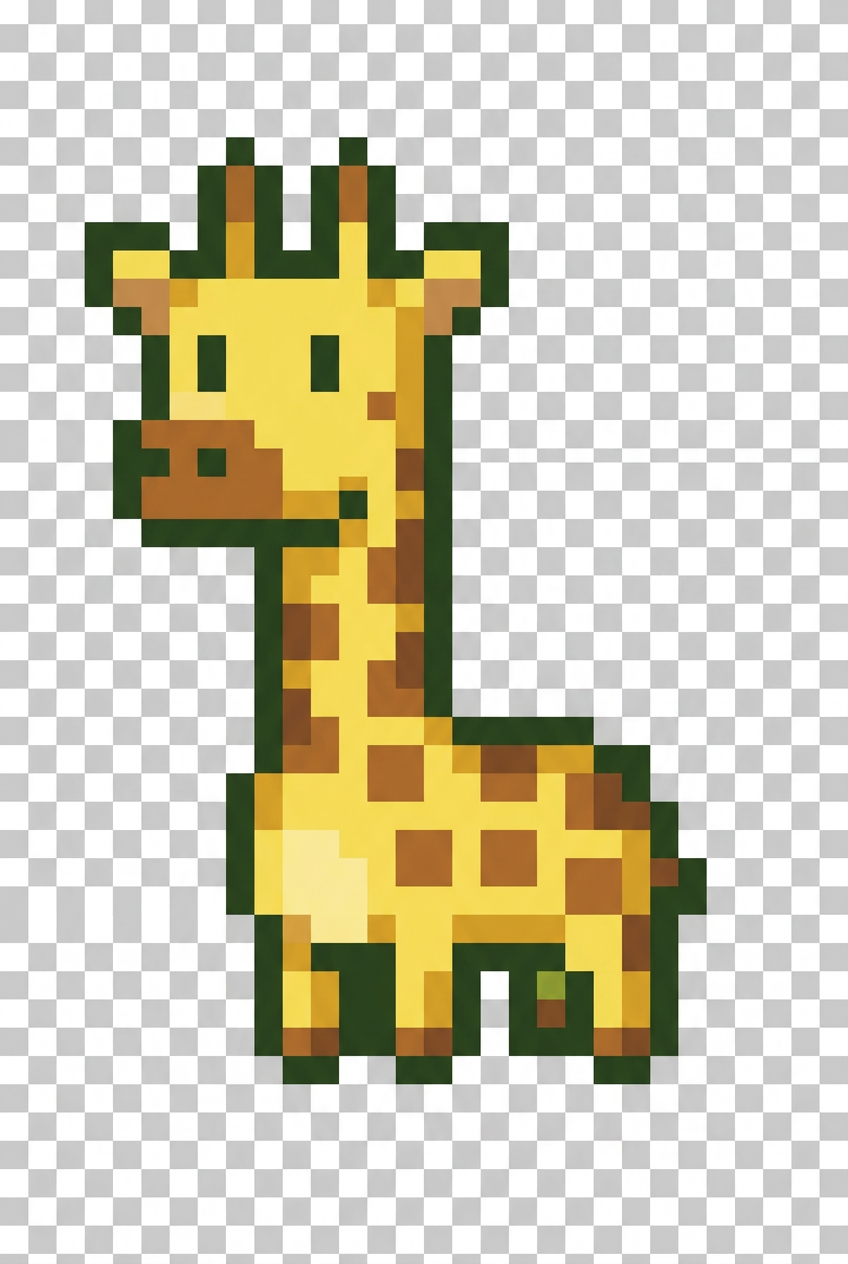
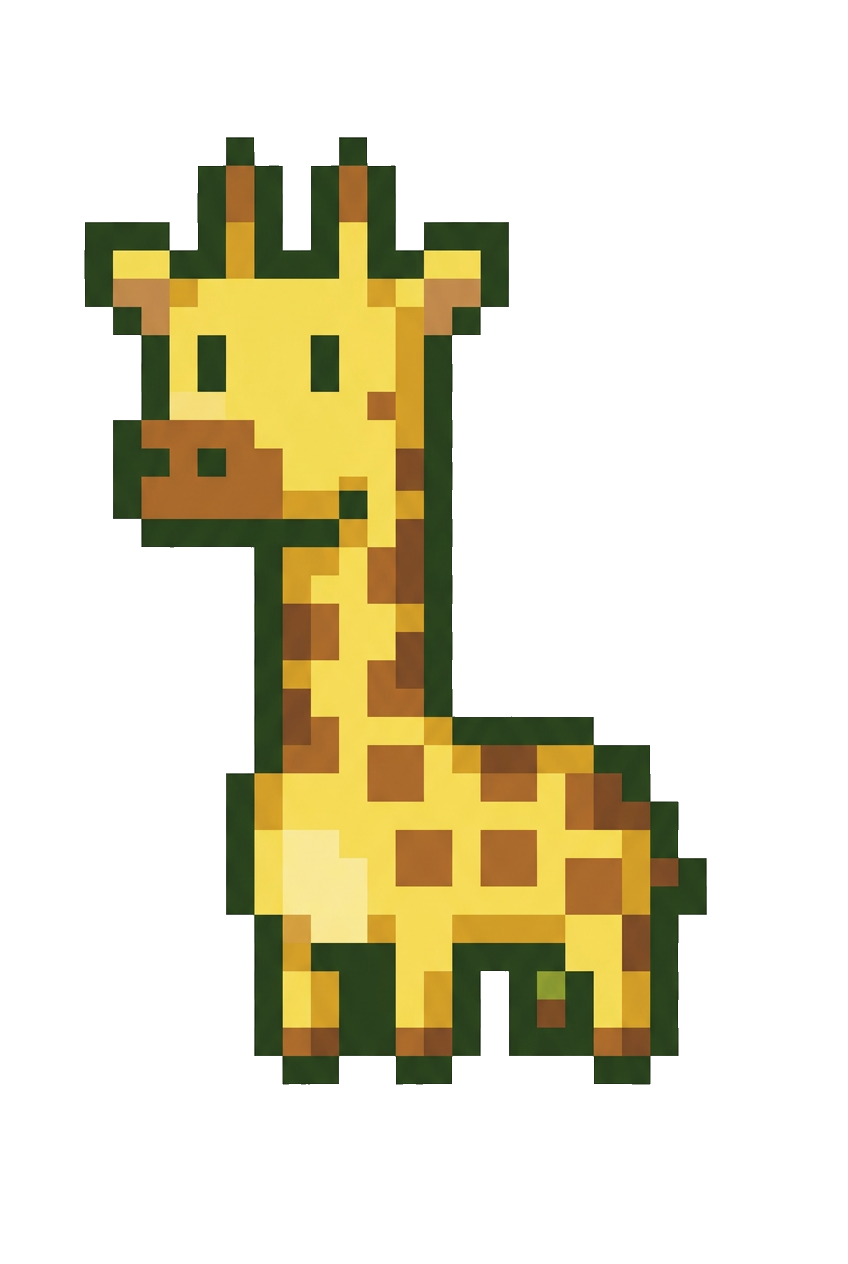
remove giraffe background via edge flood-fill; position-aware sound question phrasing

diff --git a/src/components/InitialSoundQuestion.jsx b/src/components/InitialSoundQuestion.jsx
@@ -1,12 +1,25 @@
 // Reverse of PhonemeQuestion: the child hears a whole word and taps the grapheme
-// that represents its first sound. Audio uses TTS fallback intentionally — full words
-// via Web Speech API are clear and natural; no recorded .wav files are needed.
+// for the target sound. Audio uses TTS fallback intentionally — full words via Web
+// Speech API are clear and natural; no recorded .wav files are needed.
+// Question wording adapts to where the grapheme appears in the word (beginning/end/middle).
 
 import { useEffect, useState, useMemo } from 'react'
 import { speak } from '../services/tts'
 
 function shuffle(arr) {
   return [...arr].sort(() => Math.random() - 0.5)
+}
+
+// Finds the best word and derives question phrasing based on where the grapheme sits.
+function getSegmentInfo(entry) {
+  const candidates = [entry.ttsText, ...entry.exampleWords]
+  for (const word of candidates) {
+    if (word.startsWith(entry.grapheme))
+      return { word, prompt: `what sound is at the beginning of ${word}` }
+    if (word.endsWith(entry.grapheme))
+      return { word, prompt: `what sound is at the end of ${word}` }
+  }
+  return { word: entry.ttsText, prompt: `what sound do you hear in ${entry.ttsText}` }
 }
 
 export default function InitialSoundQuestion({ entry, distractors, onCorrect, onWrong, locked = false }) {
@@ -18,11 +31,13 @@ export default function InitialSoundQuestion({ entry, distractors, onCorrect, on
     [entry]
   )
 
+  const { word, prompt } = getSegmentInfo(entry)
+
   useEffect(() => {
     setAnswered(false)
     setSelected(null)
-    // Use a key that won't match any .wav file — TTS fallback speaks the word naturally
-    return speak(`${entry.audioKey}_word`, `what sound is at the beginning of ${entry.exampleWords[0]}`)
+    // Key won't match any .wav — TTS fallback speaks the question naturally
+    return speak(`${entry.audioKey}_word`, prompt)
   }, [entry])
 
   function handleTap(option) {
@@ -53,12 +68,12 @@ export default function InitialSoundQuestion({ entry, distractors, onCorrect, on
   return (
     <div className="flex flex-col items-center gap-10 p-6 select-none">
       <button
-        onClick={() => speak(`${entry.audioKey}_word`, `what sound is at the beginning of ${entry.exampleWords[0]}`)}
+        onClick={() => speak(`${entry.audioKey}_word`, prompt)}
         className="flex flex-col items-center gap-2 cursor-pointer"
-        aria-label={`Hear the word again: ${`what sound is at the beginning of ${entry.exampleWords[0]}`}`}
+        aria-label={`Hear the word again: ${word}`}
       >
         <span className="text-7xl">🔊</span>
-        <span className="text-lg font-bold text-yellow-700">What sound does it start with?</span>
+        <span className="text-lg font-bold text-yellow-700">{prompt.charAt(0).toUpperCase() + prompt.slice(1)}?</span>
       </button>
 
       <div className="flex gap-6">